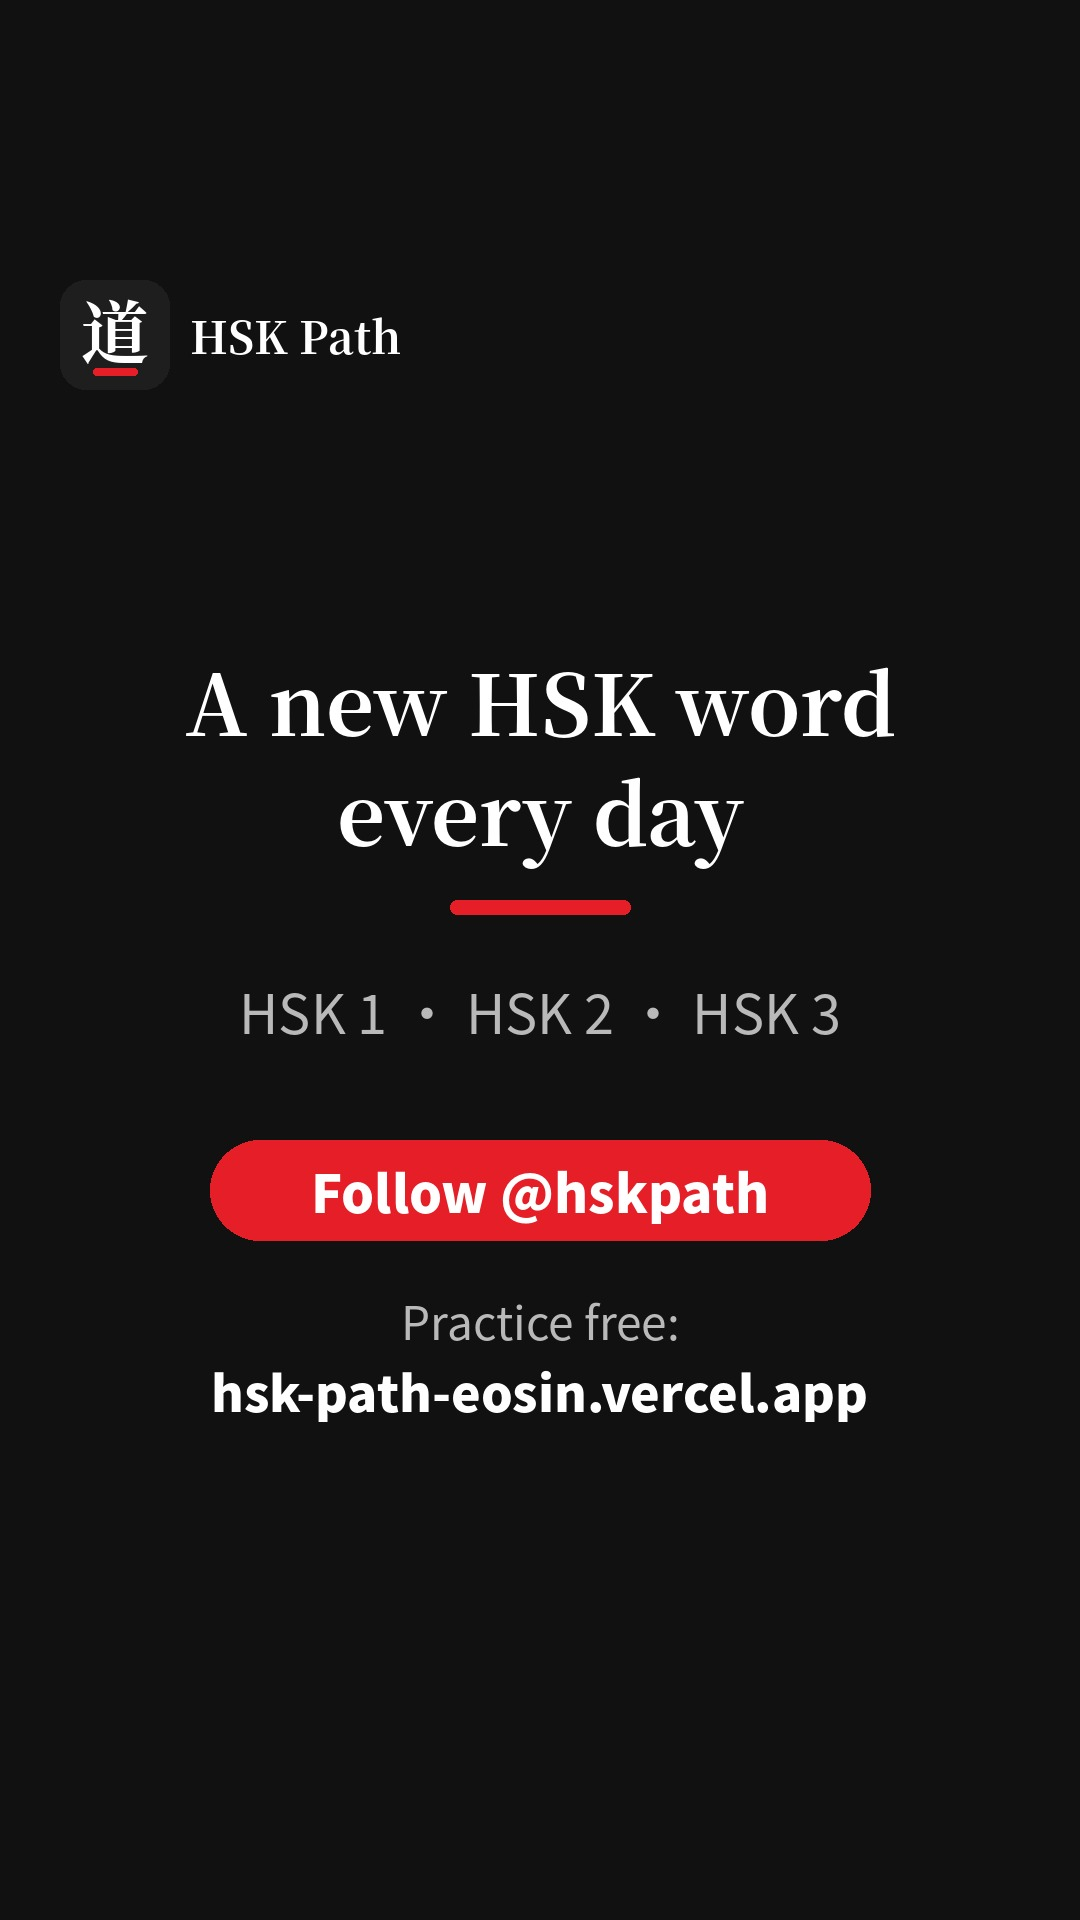
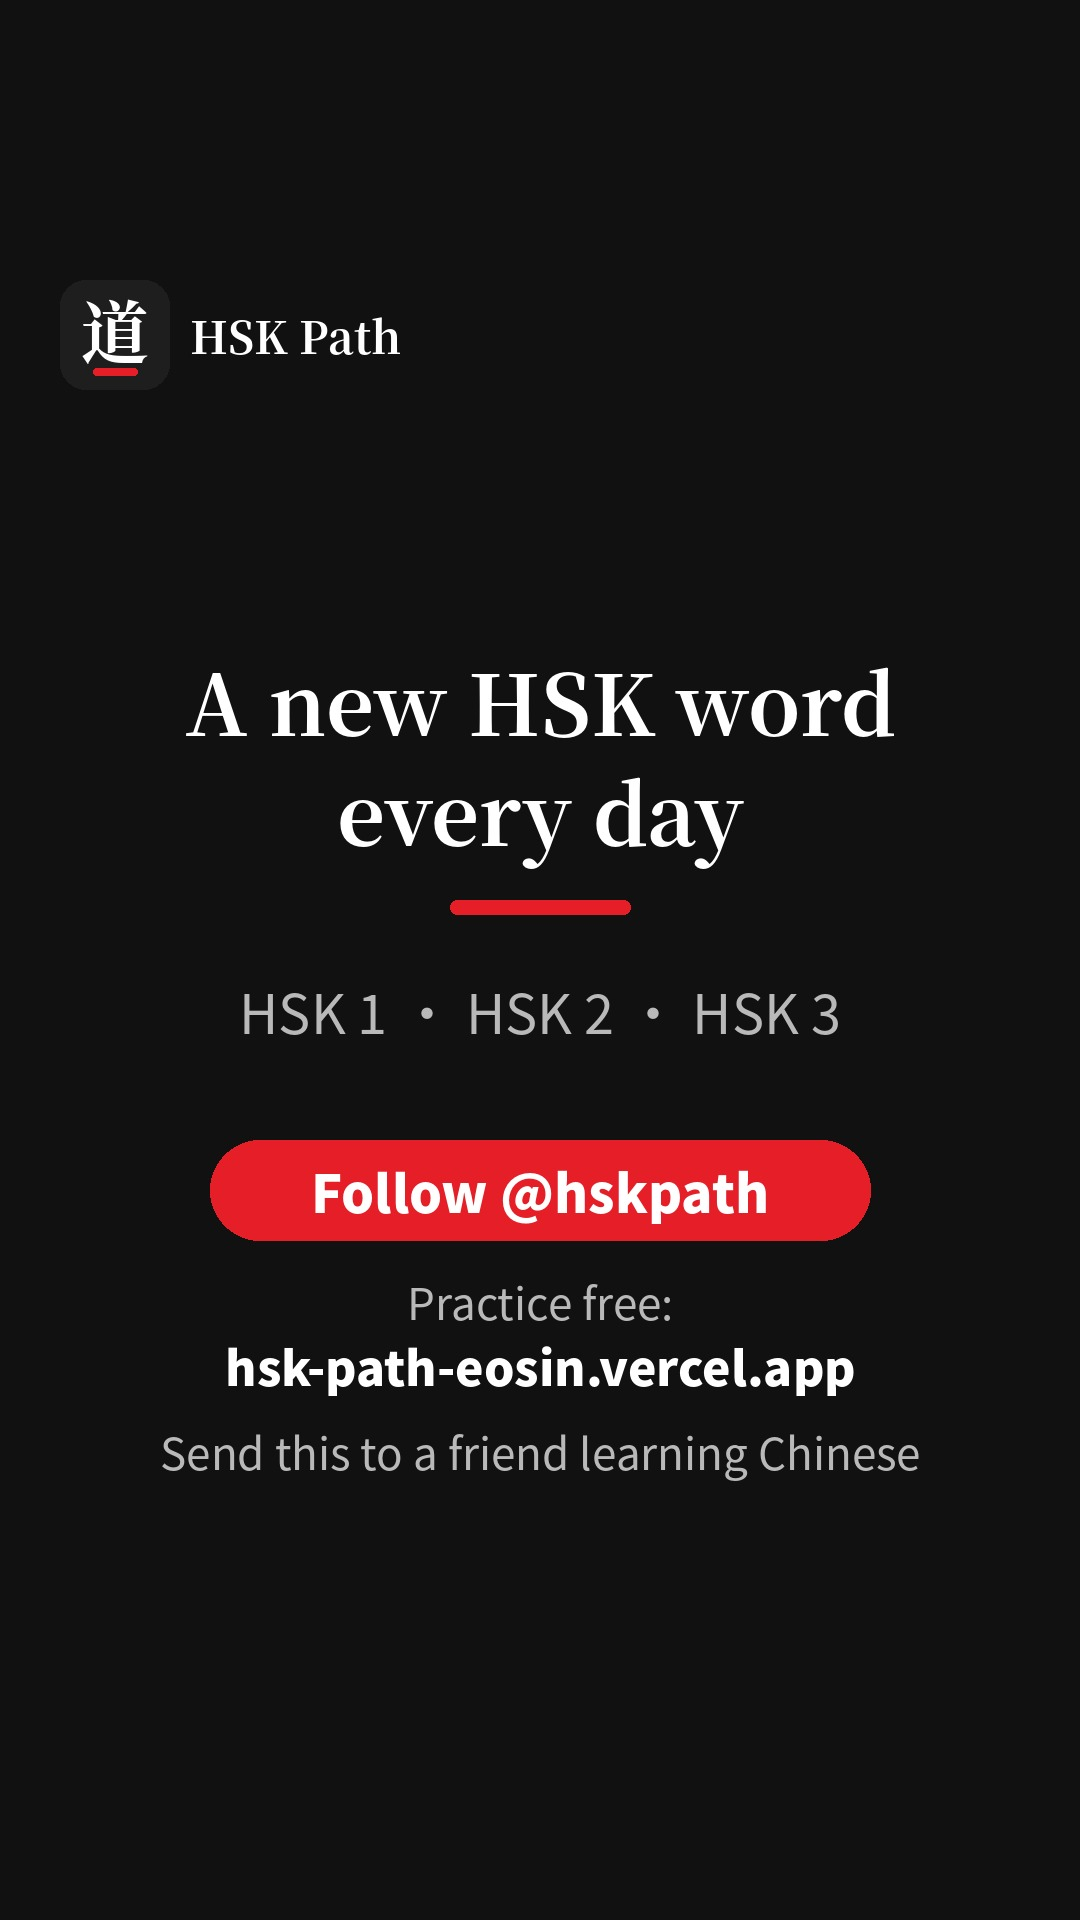
Appel au partage sur les TikTok « guess the word »
Claude-Session: https://claude.ai/code/session_01RtgC9EPYJ4HeuqcyfQsDKw

Changed region(s): [[0.1528, 0.6562, 0.8556, 0.7812]]

diff --git a/tools/guess.py b/tools/guess.py
@@ -33,7 +33,7 @@ def _fit(d, text, font_file, size, maxw):
     return F(font_file, size)
 
 def make_guess(word, pinyin, meaning, ex_zh, ex_py, ex_en, out_prefix, level="HSK 1",
-               url="hsk-path-eosin.vercel.app"):
+               url="hsk-path-eosin.vercel.app", share="Send this to a friend learning Chinese"):
     os.makedirs(os.path.dirname(out_prefix) or ".", exist_ok=True)
     big = _fit(ImageDraw.Draw(Image.new("RGB", (1, 1))), word, SERIF, 330 if len(word) <= 2 else 250, 960)
     # 1 — accroche
@@ -62,7 +62,8 @@ def make_guess(word, pinyin, meaning, ex_zh, ex_py, ex_en, out_prefix, level="HS
     d.text((W // 2, 1010), "HSK 1 · HSK 2 · HSK 3", font=F(SANS, 54), fill=GREY, anchor="mm")
     d.rounded_rectangle((W // 2 - 330, 1140, W // 2 + 330, 1240), radius=50, fill=RED)
     d.text((W // 2, 1190), "Follow @hskpath", font=F(BLACK, 52), fill=WHITE, anchor="mm")
-    d.text((W // 2, 1320), "Practice free:", font=F(SANS, 46), fill=GREY, anchor="mm")
-    d.text((W // 2, 1390), url, font=F(BLACK, 50), fill=WHITE, anchor="mm")
+    d.text((W // 2, 1300), "Practice free:", font=F(SANS, 44), fill=GREY, anchor="mm")
+    d.text((W // 2, 1365), url, font=F(BLACK, 48), fill=WHITE, anchor="mm")
+    d.text((W // 2, 1450), share, font=_fit(d, share, SANS, 44, 960), fill=GREY, anchor="mm")
     p3 = f"{out_prefix}-3.jpg"; im.save(p3, quality=92)
     return [p1, p2, p3]
